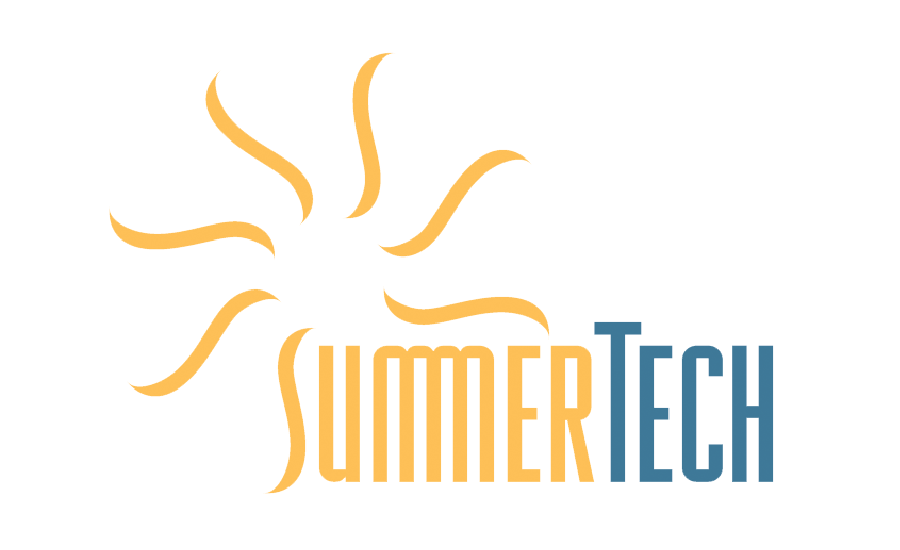
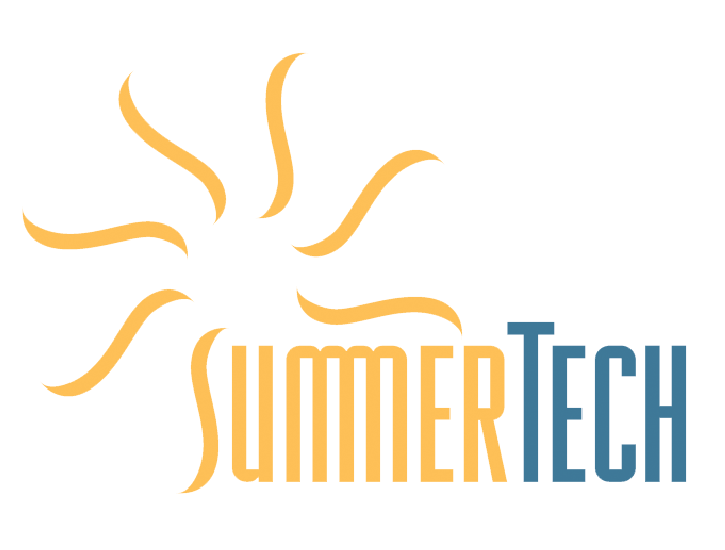
thonk

diff --git a/styles/style.css b/styles/style.css
@@ -2455,34 +2455,30 @@ textarea.form-control {
 .brand-list {
   display: flex;
   flex-wrap: wrap;
-  align-items: stretch;
-  justify-content: flex-start;
   margin-right: -5px;
   margin-left: -5px;
 }
-
 .brand-list .single-brand {
-  flex: 1 1 auto;
-  max-width: calc(20% - 10px);
-  box-sizing: border-box;
+  flex: 0 0 24%;
+  max-width: 20%;
   padding-left: 5px;
   padding-right: 5px;
-  display: flex;
-  justify-content: center;
-  align-items: center;
+  display: inline-block;
   margin-bottom: 50px;
 }
-
 .brand-list .single-brand a {
-  display: block;
-  width: 100%;
+  display: inline-block;
+  text-align: center;
+  position: relative;
+  transition: all 0.6s ease;
+  height: 100px;
+  width: auto;
   overflow: hidden;
 }
 
 .brand-list .single-brand a img {
-  max-height: 100px;
+  height: 100%;
   width: auto;
-  max-width: 100%;
   object-fit: contain;
 }
 
